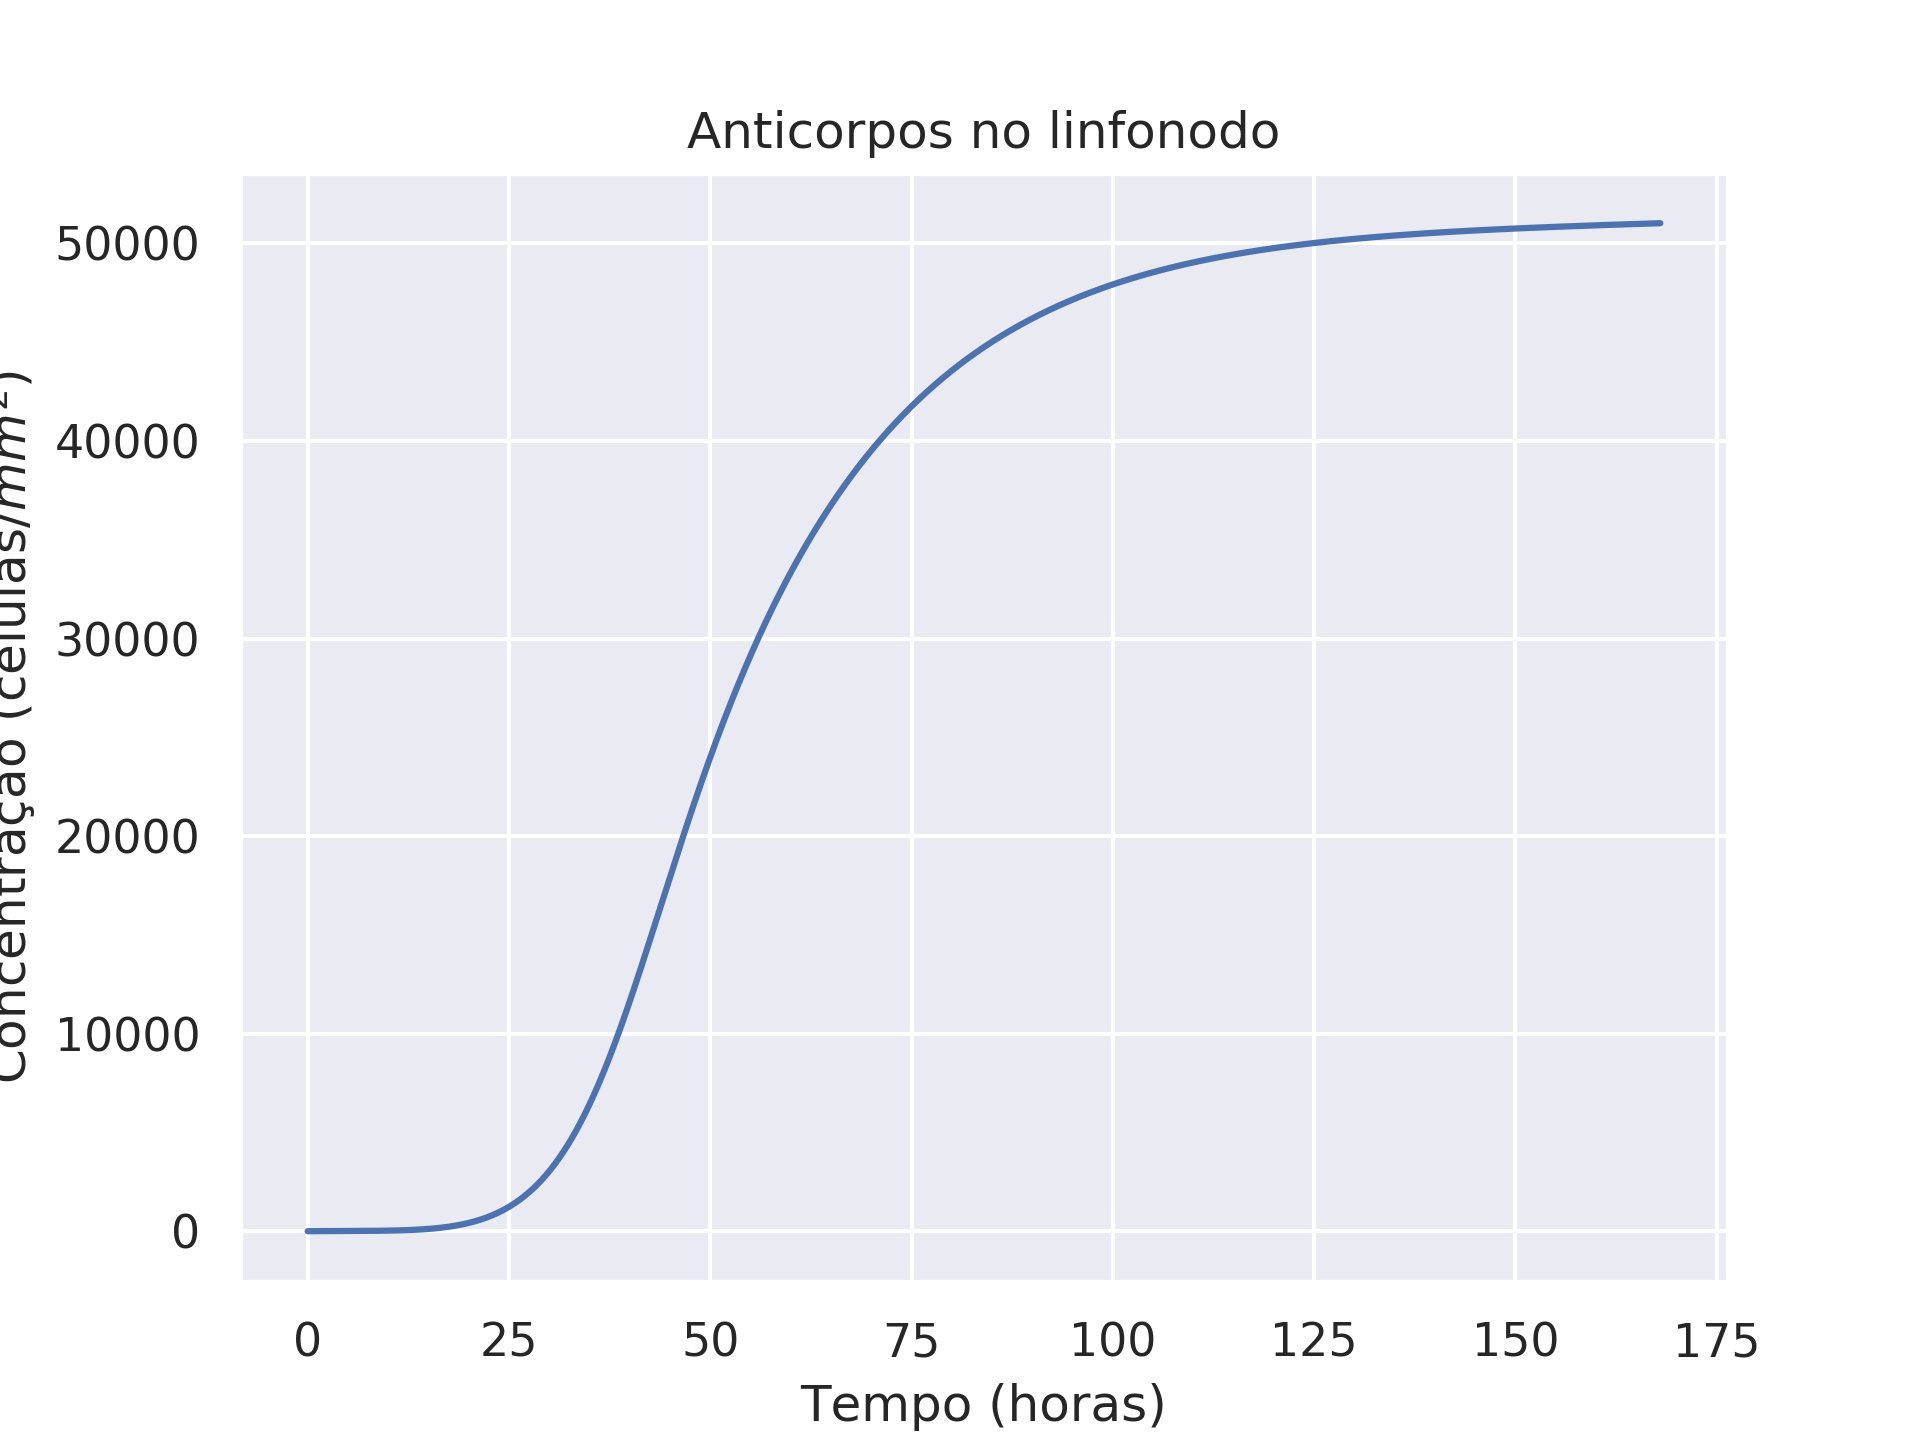
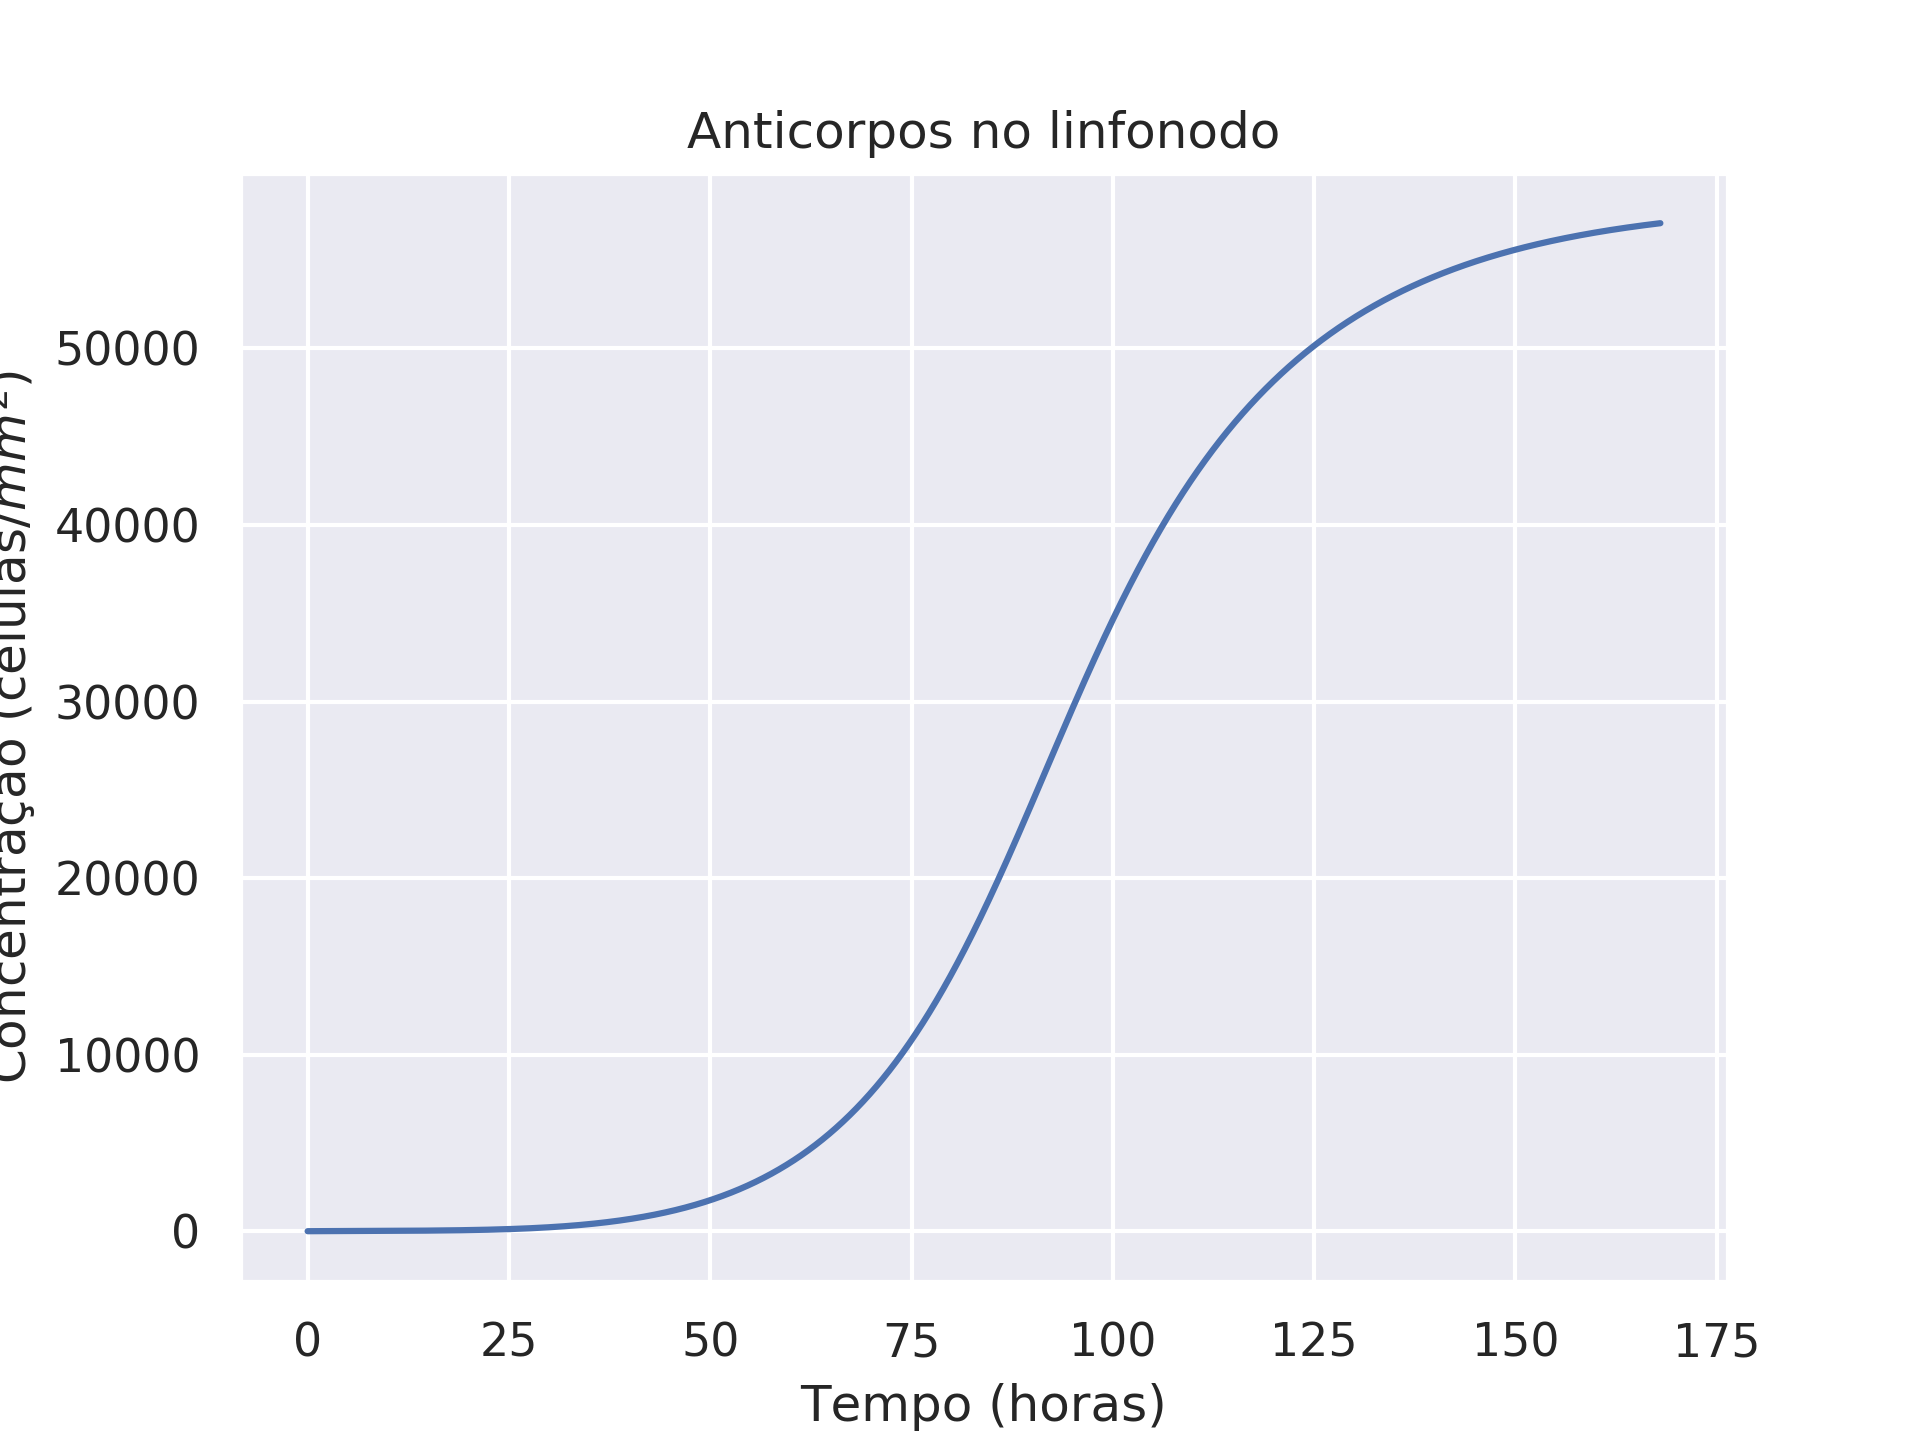
Teste com diferenca centrada sem /hx

diff --git a/src/modelo_populações_completo.py b/src/modelo_populações_completo.py
@@ -13,7 +13,7 @@ quimiotaxia = lambda ponto_atual, valor_maximo: ponto_atual/(valor_maximo + pont
 f_func = lambda populacao, valor_maximo: populacao*populacao/(valor_maximo + populacao)
 
 T_final = 7# Dia
-h_t = 0.001
+h_t = 0.0002
 
 L = 10  # Comprimento da malha
 h_x = 0.1
@@ -178,7 +178,7 @@ def printMesh(time, population, type):
 
 
 parameters = {
-    "chi": 0.298*60*2 , # Quimioatracao(a mesma para todas as celulas por enquanto). valor por Dia
+    "chi": 0.298*60*24, # Quimioatracao. valor por Dia
     "D_mic": 60*24*6.6*10**-5, # Difusao da microglia. valor por Dia
     "mu_m": 60*24*3*10**-6, # Taxa de ativação da microglia. valor por Dia
     "r_m": 60*24*3.96*10**-6, # intensidade dos danos causados pela microglia valor por Dia
